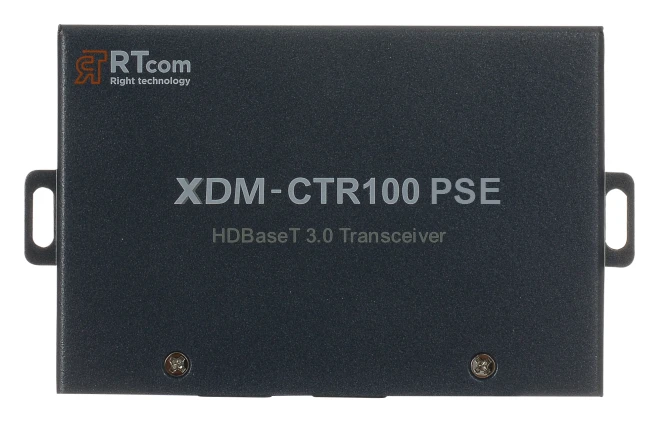
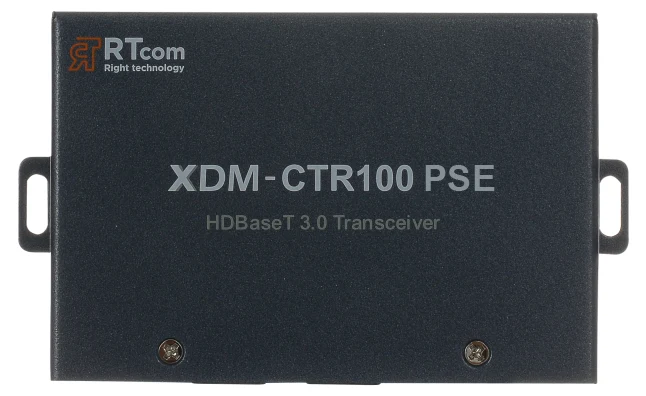
0.91.0: XDM-CTR100 PSE 정면 사진 재업로드

diff --git a/index.html b/index.html
@@ -1,7 +1,7 @@
 <!doctype html>
 <html lang="ko"><head><meta charset="utf-8"><meta name="viewport" content="width=device-width,initial-scale=1"><title>RTCOM 매트릭스 구성기</title><meta name="description" content="RTCOM XDM, SPX, VDM 매트릭스 카드 슬롯 구성기와 알티컴 공개 제품정보"></head><body><div id="rtcom-design" aria-label="RTCOM 매트릭스 구성기">
   <link rel="stylesheet" href="src/styles.css">
-  <header class="rt-top"><a class="rt-brand-lockup" href="./"><span class="rt-brand-mark" aria-hidden="true">▦</span><span><span class="rt-brand">RT<span>COM</span> Matrix Configurator</span><span class="rt-brand-sub">XDM · SPX · VDM CARD SLOT DESIGN</span></span></a><nav class="rt-view-tabs" aria-label="화면 전환"><a data-view-tab="configurator" href="#matrix-configurator" aria-current="page">매트릭스 구성기</a><a data-view-tab="products" href="#products">알티컴 제품정보</a></nav><div class="rt-top-links"><a class="rt-portal-link" href="https://seoulav.github.io/AV-Portal/" target="_blank" rel="noopener">AV Portal에서 제품 찾기 <span aria-hidden="true">↗</span><span class="rt-visually-hidden">(새 창)</span></a><div class="rt-meta"><b>AV 시스템 설계 도구</b><br>CATALOG BASED · 0.90</div></div></header>
+  <header class="rt-top"><a class="rt-brand-lockup" href="./"><span class="rt-brand-mark" aria-hidden="true">▦</span><span><span class="rt-brand">RT<span>COM</span> Matrix Configurator</span><span class="rt-brand-sub">XDM · SPX · VDM CARD SLOT DESIGN</span></span></a><nav class="rt-view-tabs" aria-label="화면 전환"><a data-view-tab="configurator" href="#matrix-configurator" aria-current="page">매트릭스 구성기</a><a data-view-tab="products" href="#products">알티컴 제품정보</a></nav><div class="rt-top-links"><a class="rt-portal-link" href="https://seoulav.github.io/AV-Portal/" target="_blank" rel="noopener">AV Portal에서 제품 찾기 <span aria-hidden="true">↗</span><span class="rt-visually-hidden">(새 창)</span></a><div class="rt-meta"><b>AV 시스템 설계 도구</b><br>CATALOG BASED · 0.91</div></div></header>
   <section class="rt-configurator-view" aria-label="매트릭스 구성기">
     <div id="matrix-configurator" class="rt-configurator-anchor"><h1 class="rt-visually-hidden" tabindex="-1">매트릭스 구성기 — 프레임을 선택하고 실제 슬롯 위치에 입력·출력 카드를 장착해 구성합니다.</h1></div>
     <div class="rt-workspace"><div class="rt-tools"><button class="rt-button" data-tool="undo" disabled>↶ 실행 취소</button><button class="rt-button" data-tool="redo" disabled>↷ 다시 실행</button><button class="rt-button" data-tool="backup">JSON 백업</button><button class="rt-button" data-tool="import">불러오기</button><button class="rt-button" data-tool="reset">새 구성</button></div><p id="save-status" role="status" aria-live="polite">이 브라우저에 자동 저장됩니다.</p><input id="import-file" type="file" accept=".json,application/json" hidden></div><nav class="rt-nav" aria-label="구성 단계"></nav>

diff --git a/CLAUDE.md b/CLAUDE.md
@@ -50,7 +50,7 @@
 
 - 현재 화면 버전은 `index.html`의 우측 상단 표기와 `README.md`에 함께 기록합니다.
 - 원본 `main`에 기능 묶음을 병합할 때 마이너 버전을 올리고, 같은 커밋에서 `CHANGELOG.md`를 갱신합니다.
-- 구성기 단일 화면 전환은 `0.7.0`, Analog Way 방식 화면 개편은 `0.8.0`, 전송기 자동 연동은 `0.9.0`, HDMI 카드 PSE 쌍 연장은 `0.10.0`, SPX 매뉴얼 사진 슬롯은 `0.11.0`, VDM-256X 추가는 `0.12.0`, VDM 매뉴얼 후면 도면 슬롯은 `0.13.0`, 휴대폰 슬롯 겹침·뒤로가기 수정은 `0.14.0`, VDM 전면 도면은 `0.15.0`, 사진 슬롯 판넬 잘림 수정은 `0.16.0`, 장착 슬롯 번호표 숨김·구성 요약 카드 확대는 `0.17.0`, XDM 판넬 손나사 잘림 수정·VDM 전송기 연동·로고 홈 이동 확인은 `0.18.0`, 알티컴 공개 제품정보(29종) 재게시는 `0.19.0`, 제품정보 상세 표기를 에이앤미디어(antez.co.kr) 방식으로 정리한 것은 `0.20.0`, 데이터 기반 연결 다이어그램 추가는 `0.21.0`, 제품 사양 표를 구분·사양 2단으로 정리한 것은 `0.22.0`, 휴대폰 가로 스크롤(긴 출처 경로) 수정은 `0.23.0`, HD-14U·HD-18U 모델명 정정과 VDM CT102-U·FT102-U 계열 제외는 `0.24.0`, 제조사 카탈로그 원본 연결 다이어그램 적용은 `0.25.0`, 제품 사양 표 디자인(분류 색 점) 다듬기는 `0.26.0`, 새 카탈로그로 나머지 25종 재검증·XDM-CTR100 조합 다이어그램은 `0.27.0`, 연결 다이어그램 가로 스크롤 안내(그러데이션 표시)와 XDM-CTR100 케이블별 최대 전송거리(CI6522 80m) 추가는 `0.28.0`, VDM HOS4-U·HOS4S-UW 카드 설명을 스위칭 방식(일반·심리스)으로 정리하고 XDM-288을 구성기에서 삭제한 것은 `0.29.0`, XDM-CTR100 연결 다이어그램 조합 1을 매트릭스 카드 직결 배선으로 바로잡고 제조사 원본 다이어그램에 출처 캡션·표기 다름 경고를 추가하고 6개 제품과 SPX 다이어그램을 다시 잘라낸 것은 `0.30.0`, VDM 전송기 4종(CT101-U/CR101-U·CT103-U-H/CR103-U·FT101-U/FR101-U·FT103-U-H/FR103-U)에 RS-232 단자 행을 추가하고 이 4종과 CT104-U/CR104-U를 46쪽판과 재대조하고 27종 전체의 카탈로그 쪽 표기를 46쪽판 기준으로 통일한 것은 `0.31.0`, `docs/audit/PRODUCT_DIAGRAM_REVIEW_2026-09-27.md` §6 판단표대로 13개 제품의 검토 필요 항목을 정리해 REVIEW REQUIRED 배지를 없앤 것은 `0.32.0`, 제품정보 화면을 사용자 LED 구성기 계승 글래스 디자인으로 개편한 것(`docs/handoff/PRODUCT_GLASS_REDESIGN_SPEC.md` 6-A: 기반·HD-210U·XDM·VDM·SPX)은 `0.33.0`, 나머지 23종(분배기·일체형·전송기·케이블)에 lead·subtitle·portMap을 채우고 분배기·일체형 신호 흐름을 승인 시안 방식으로 바꾸고 QMS 화면 구성 모드(videoModes)를 추가한 것(6-B)은 `0.34.0`, HD-13U 상세에 전면 EDID 로터리 스위치 위치 표시와 EDID 코드표(edidSwitch, 사용자 제공 매뉴얼 근거)를 추가한 것은 `0.35.0`, HD-104U·HD-108U 모델명 표기를 0.24.0 정정 이전으로 되돌리고(사용자 확인 2026-09-27: 카탈로그 표기는 HD-104U·HD-108U이며 실크만 14U·18U로 변경 예정) HD-210U 전면 설정 스위치(딥 스위치·EDID 로터리) 추가와 신호 흐름 매트릭스 판정 복원을 함께 묶은 것은 `0.36.0`, 매트릭스 구성기 화면을 Analog Way 구조 + LED 글래스 스킨으로 개편하고 블랭크 커버(`placements`의 예약값 `"BLANK"`)로 슬롯 구성을 완성하는 기능을 추가한 것(`docs/handoff/CONFIGURATOR_AW_GLASS_SPEC.md`, 사용자 결정 2026-09-27)은 `0.37.0`, 0.37.0에서 시안과 다르게 남겨 둔 04 전송기 화면을 사용자 검토 후 좌우 분할 구조(01·02와 같은 틀)로 다시 지은 것(`docs/implementation/CONFIGURATOR_AW_GLASS.md` "04 전송기(편차 — 0.38.0에서 해소)")은 `0.38.0`, 제품 상세 "01 한눈에 보기" 위에 큰 사진 띠와 누르면 확대되는 돋보기(라이트박스)를 추가하고 화면에 보이는 제품 사양·주요 기능의 "up to" 표기를 "최대"로 통일하고 제품정보 "확인 사항" 118건을 2건으로 정리(HD-210U 크기 355mm 정정, `docs/audit/PRODUCT_ISSUES_ARCHIVE_2026-09-27.md`)한 것은 `0.39.0`, HD-13U "05 주요 기능"에 오디오 병합(믹스)·추출(디먹스) 동시 사용 안내(매뉴얼 7쪽 근거)를 추가한 것은 `0.40.0`, 분배기(HD-13U·HD-104U·HD-108U·HD-210U) EDID 로터리 코드표에서 자주 쓰는 1·7번을 강조하고 "02 신호 흐름"에 오디오 병합·추출(AUDIO OUT·"추출" 표시)을 추가한 것은 `0.41.0`, 사진 없이 입출력 표 카드로만 보이던 7종(HD-D102U·XDM-CTR100·전송기 5종)의 단자 지도를 HD-13U처럼 실제 제품 사진 기준으로 바꾸고 `portMap`이 송신기·수신기 사진 여러 장을 받게 한 것은 `0.42.0`, HDS-21U·HDS-42MU에 EDID 로터리(edidSwitch)를 추가하고 오디오 병합 설명을 "HDMI OUTPUT에 실리는 오디오" 기준으로 정정하고 분배기·선택기 필터를 HDMI 출력 개수 순으로 정렬하고 XDM-CTR100 "02 신호 흐름" 케이블 최대 전송거리 표기를 다이어그램 하단 한쪽으로 모은 것은 `0.43.0`, 분배기·선택기 필터 정렬을 분배기(Splitter)가 먼저 나오고 셀렉터(Switcher)가 나중에 나오도록(같은 종류 안에서는 HDMI 출력 개수 순) 바꾼 것은 `0.44.0`, 사용자 제공 매뉴얼 3권으로 벽부형 XDM-CT103·CT103-U-H/CR103-U·FT103-U-H/FR103-U의 단자 지도·사양·EDID 표를 보완하고 단자 지도에 세로 괄호·표시 폭·안내 줄을 추가한 것은 `0.45.0`, XDM-CTR100 PSE 제품 안내서와 XDM-CTR100 매뉴얼 Ver.1.4로 CTR100 단자 역할(HDMI IN·OUT, 5핀 오디오 출력, 상태 LED)·딥 스위치 설정·PSE 크기·전원을 보완한 것은 `0.46.0`, 옛 PR #22에만 있던 사용자 결정(XDM-CTR100과 XDM-CTR100 PSE를 별도 제품으로 분리해 28종, QMS-88UX 쿼드 뷰 출력 9·10번 사용법, 모델명 줄바꿈 방지)을 현재 main 기준으로 다시 옮기고 HD-13U 오디오 병합·추출을 선택 방식으로 정정해 07 오디오 설정 카드를 추가하고 모든 제품의 단자 지도 번호를 HDMI 입력 → 출력 → 오디오 → … → 전원(마지막) 순으로 통일한 것은 `0.47.0`, QMS-88UX 출력 9·10번 멀티뷰의 12가지 레이아웃·입력 그룹·출력 옵션을 사용자 제공 매뉴얼 20~23쪽 근거로 "주요 기능"에 적은 것은 `0.48.0`, HDS-21U·HDS-42MU 오디오 병합·추출을 딥 스위치 1번 선택 방식으로 정정하고 07 오디오 설정 카드를 추가하고 사용자 제공 매뉴얼 Ver.1.0으로 Priority·분배 기능 딥 스위치를 보완하고 제품 사진 팝업을 사용자 LED 계산기 "05 프로세서" 방식(사진 탭·원형 돋보기)으로 바꾼 것은 `0.49.0`, QMS-88UX "02 신호 흐름"에서 멀티뷰 출력 9·10번을 매트릭스 출력과 분리된 별도 갈래(패널·캡션)로 다시 그리고 "05 주요 기능" 멀티뷰 항목을 요약하고 오디오 출력 2개(QD1·QD2)가 선택 가능한 출력임을 반영한 것은 `0.50.0`, QMS-88UX "04 제품 사양"의 조건 칸(부설)을 모두 비우고 LAN(Telnet & Web Browser) 표기를 사양·기능·개요·단자 지도에서 모두 뺀 것은 `0.51.0`, HDS-42MU 크기를 사용자 결정에 따라 매뉴얼 값 232×65×30mm로 바꾸고 제품 상세의 "자료 출처·검토 기록"을 "제조사 자료"로 이름을 바꿔 화면의 출처 표시를 뺀 것은 `0.52.0`, QMS-88UX 오디오 QD1·QD2 설명 정리·"02 신호 흐름" 오디오 추출 점선과 멀티뷰 8입력분할 표현 정리·입출력 단자 표 정렬 통일(TX→구분 없음→RX, 영상→오디오→전송→제어, 입력→출력→양방향)·"제조사 자료"에서 표기 다름·참고 사항도 추가로 뺀 것과 조건 칸의 출처 문구를 지우고 "05 주요 기능"을 한 줄 요약으로 줄인 것(상세는 06·07 카드·사양·단자 지도로 이동)은 `0.53.0`, XDM-CTR100·CTR100 PSE "04 제품 사양"의 딥 스위치 행을 다시 삭제(딥 스위치는 05 주요 기능에서만 안내)하고 전 제품 "05 주요 기능"을 추가로 압축하고 매트릭스 COS/CIS/FIS/FOS 카드와 짝인 전송기 3종(XDM-CTR100·CTR100 PSE·FT101/FR101)에 RS-232+ 패스스루(AMX 등 통합 제어 신호를 매트릭스·전송기 너머로 전달) 안내를 추가하고 "02 신호 흐름"의 케이블 최대 전송거리 표기를 범례 "출력" 항목 오른쪽으로 옮긴 것은 `0.54.0`, 구성기 확인 창을 사이트 글래스 스타일 대화상자로 바꾸고 카드 팝업에 수량 채우기와 같은 방향 슬롯 이동(끌어 옮기기·팝업 이동)을 추가하고 XDM 세로 슬롯 카드를 180도 돌리고 2U 이상만 정면·후면 버튼(그보다 작으면 정면 사진과 포트 연결면을 함께 표시)으로 하고 구성기 작업 단계 표기를 한글로 바꾸고 Delete 키 카드 빼기와 XDM RS-232+(CIS·COS·FIS·FOS 카드와 짝 전송기) 표기를 더한 것은 `0.55.0`, 전 제품 "05 주요 기능" 카탈로그 어투 통일("~ 지원")·"01 한눈에 보기" 위 사진 띠 삭제·"02 신호 흐름"과 "03 단자 지도" 순서 교체 및 영문 표기(Signal Flow·Port Map)·화면 구성 모드 등 06 카드를 05 옆으로 배치·QMS-88UX 06 화면 구성 모드 레이아웃 12종 클릭 미리보기 추가·HDS-21U·HDS-42MU 단자 지도를 정면·후면 선택 버튼 없이 위아래 합성 사진 한 장(번호 1~7, EDID 로터리 6번·전원 7번)으로 바꾼 것은 `0.56.0`, 05 옆으로 옮긴 06 카드가 휴대폰에서 01보다 먼저 뜨던 순서 버그를 고치고(rt-pg-col-mobile-6 클래스 추가) 15개 제품 "05 주요 기능"의 "~할 수 있다." 표현 24곳을 명사형으로 정리한 것은 `0.57.0`, HDS-21U·HDS-42MU 단자 지도에 MODE 딥 스위치 번호(7번)를 추가하고 07 오디오 설정 카드를 딥 스위치 그림(번호별 OFF·ON) 카드인 07 딥 스위치 설정으로 바꾸고(1번 오디오 병합·추출, 2번 Priority, 42MU만 3번 분배) 04 제품 사양의 딥 스위치 행과 05 주요 기능의 긴 설명을 이 카드로 옮기고 매트릭스 제품(QMS-44UX·QMS-88UX·HDS-42MU) "03 Signal Flow"를 입력이 한 점으로 모이는 모양 대신 크로스포인트(출력마다 입력 선택 예시)로 다시 그리고 HDS-42MU 정면 사진의 잘못 인쇄된 실크(MODE·EDID)를 사진 안에서 서로 바꾼 것은 `0.58.0`, EDID 로터리 태그 잘림·06 EDID 카드 배치·긴 코드표 좌우 분할을 고치고 EDID 설정 카드에 기본값·자주 쓰는 코드를 파란 16단 로터리 그림(화살표가 코드를 가리킴)으로 보여주고 HDS-21U·HDS-42MU(3·9번)·FT103-U-H/FR103-U(3·6번)에 자주 쓰는 코드 강조를 더하고 EDID 코드표 세로 크기를 줄인 것은 `0.59.0`, 04 제품 사양 표 줄 간격을 약 15% 줄이고 03 Signal Flow에서 AUDIO OUT "추출" 표시가 잘리던 그림 너비 계산을 고친 것은 `0.60.0`, HD-13U 07 오디오 설정을 06 EDID 다음 전체 폭으로 옮겨 잘림·번호 뒤집힘을 고치고 EDID 대표 설정과 같은 칸 4개(MODE 로터리 0번 → SET 누름 → OUT 1 LED 깜빡임·깜빡이지 않음)를 넣고 HD-210U에 매뉴얼 Ver.1.2 근거 07 딥 스위치 설정 카드(1번 오디오 병합, 2번 DDC)를 추가한 것은 `0.61.0`, 딥 스위치 카드가 있는 HD-210U·HDS-21U·HDS-42MU의 05 주요 기능에서 스위치 번호 참조를 지우고 HD-210U(5줄)·HD-13U(3줄) 05 주요 기능을 기능 이름만 남겨 정리하고 HDS-21U·HDS-42MU 딥 스위치 칸을 ON → OFF 순서로 바꾼 것은 `0.62.0`, QMS-44UX·QMS-88UX "06 화면 구성 모드" 카드가 05 옆 좁은 칸에 들어가면서 모드 카드 설명·레이아웃 칩이 카드 밖으로 넘치던 문제를 edidSwitch와 같은 기준(항상 전체 폭 아래)으로 고친 것은 `0.63.0`, SPX-TX/RX 전송기를 29번째 제품으로 추가(매뉴얼 Ver.2.0: 사양·단자 지도·딥 스위치 조합)하고 XDM-FT101/FR101에 매뉴얼 Ver.1.3 근거 EDID·오디오 로터리 카드(전체 8칸 그림)를 넣고 SPX 안내·범례의 HDBaseT 표기를 CATx로 바로잡고 OBUX-1C에 매뉴얼 Ver.2.2 근거 Tx Mode 딥 스위치 카드(1번 오디오, 2·3·4번 EDID 조합)를 넣고 전 제품 05 주요 기능의 "~한다/~다." 문장을 "~ 지원"·명사형으로 통일한 것은 `0.64.0`, OBHD-2C에 매뉴얼 KV01 근거 06 EDID 설정(MODE 로터리 0~D 전체 14칸 그림·코드표)을 추가하고 XDM-CT103/CR103 04 제품 사양의 전원(어댑터) 중복 행(CT103·CR103 각각 있던 동일 값)을 공통 행 하나로 합친 것은 `0.65.0`, XDM-CTR100·XDM-CTR100 PSE에 매뉴얼 Ver.1.4 근거 06 딥 스위치 설정(1·2번 TX/RX 모드 조합, 3번 전송 거리)을 추가하고 두 제품이 별도 페이지로 나뉜 뒤에도 남아 있던 04 제품 사양의 "공통"·자기 모델명 반복 표기를 정리하고 04 사양 "지원 케이블"을 "권장 케이블"로 바꾸고 분배기 4종(HD-13U·HD-104U·HD-108U·HD-210U) 단자 지도를 앞면·뒷면 합성 사진 한 장으로 바꿔 정면 로터리(·SET·MODE)에도 번호를 붙인 것은 `0.66.0`, QMS-88UX 06 화면 구성 모드 QUAD 레이아웃 목록에 매뉴얼 22~23쪽 Output Option 2·3 근거로 "8분할(비율무시)"을 13번째 항목으로 추가하고 분배기 4종(HD-13U·HD-104U·HD-108U·HD-210U) 05 주요 기능에 다단 증폭(캐스케이드 연결) 최대 3단 지원을 추가한 것은 `0.67.0`, XDM-FT101/FR101 단자 지도에 정면 MODE 로터리·S/P 번호를 추가하고 HD-D102U 05 주요 기능을 명사형으로 전면 재작성하고 HDS-21U·HDS-42MU "Audio Extraction"과 HD-210U EDID "Nothing" 표기를 통일하고 HDS-21U 딥 스위치 3번(분배)이 매뉴얼에 없는 기능이었음을 사용자 제공 매뉴얼로 확인해 삭제한 것은 `0.68.0`, HDS-21U·HDS-42MU 06 EDID 설정 안내 문장에서 "10번=A, 11번=B"처럼 10진수를 다시 설명하던 괄호를 완전히 지운 것은 `0.69.0`, 구성기 "섀시"를 "프레임"으로 통일하고 카드 팝업에 수량·순서대로 장착 버튼을 넣고 02 프레임 선택에 "함께 보면 좋은 제품"을 추가하고 빈 슬롯 공패널색을 통일하고 OBHD-2C EDID 로터리 번호를 매뉴얼 Ver.2.1 기준으로 정정하고 HD-D102U "스마트 EDID" 문구를 알기 쉽게 풀어 쓰고 HD-13U·XDM-CTR100 PSE "인증: KC 인증" 행을 삭제하고 HD-D102U 04 사양표를 HD-13U와 같은 구성으로 정리한 것은 `0.70.0`, OBHD-2C 04 제품 사양의 크기·무게·HDMI 규격을 사용자 결정에 따라 매뉴얼 Ver.2.1 값(128×89×25mm·0.36kg·HDMI 1.3)으로 바꾼 것은 `0.71.0`, OBHD-2C·OBUX-1C 04 제품 사양의 입력단자·출력단자(HDMI(female) 등 표기) 행을 삭제하고 전 제품(16종)의 mm/kg 옆 인치·lbs 병기를 지운 것은 `0.72.0`, XDM-PSU 전원 장치를 반영해 BOM의 임시 "전원 공급 장비"를 XDM-PSU(16칸당 1대)·XDM-POH(CTR100 Tx 1대당 1개)·XDM-PHX(COS100 1장당 1개)로 나누고 XDM-PSU를 30번째 제품으로 추가하고, HDS-21U·OBUX-1C 송신기·수신기 고해상도 실물 사진을 반영하고, CT103-U-H/CR103-U 04 제품 사양을 요약 형태로 정리한 것은 `0.73.0`, QMS-44UX 전면·후면 사진을 사용자가 직접 촬영한 고화질 사진으로 바꾸고 03 단자 지도 좌표를 재보정하고 새 사진에서 확인된 DOWNLOAD(Mini-USB) 포트를 추가한 것은 `0.74.0`, HD-108U 전면·후면 사진을 제조사에서 입수한 고화질 사진으로 바꾸고 03 단자 지도와 06 EDID 설정 로터리 스위치 좌표를 재보정한 것은 `0.75.0`, HDS-42MU 전면·후면 사진을 고화질로 바꾸고 단자 지도·EDID 좌표를 재보정한 것은 `0.76.0`, HD-13U·SPX-M810 전면·후면 사진을 고해상도로 바꾸고 HD-13U 단자 지도·EDID 좌표와 SPX-M810 구성기 카드 슬롯 좌표를 재측정한 것은 `0.77.0`, 사용자가 제공한 HD-104U 고해상도 전면·후면 사진(긴 변 약 2000px)으로 기존 저해상도 이미지를 교체하고 단자 지도·EDID 로터리 스위치 좌표를 새 사진 기준으로 다시 측정한 것은 `0.78.0`, 제품 상세에 등록된 제조사 카탈로그·매뉴얼 PDF만 "제품 목록" 옆 버튼(새 탭 보기·내려받기)으로 보여 주는 구조를 추가한 것은 `0.79.0`, 매트릭스 카드 상세 정보 버튼과 XDM·SPX·VDM 카드 26종 사양을 등록한 것은 `0.80.0`, 로컬 작업 환경(`DEVICE_WORKFLOW.md`, `.gitattributes`, `.claude/settings.json`)과 `input_doc` 자료 자동 분류(`.claude/skills/input-doc`, `scripts/input_doc.py`)를 추가한 것은 `0.81.0`, 제조사 자료 입출력 단자 표에서 방향("입력"·"출력"·"입출력")·수량(숫자) 칸이 좁은 화면에서 줄바꿈되던 문제를 30개 제품 전수 조사로 찾아 고친 것은 `0.82.0`, 제목에 송신기·수신기가 들어간 제품 10종의 라벨을 색으로 구분한 것은 `0.83.0`, input_doc 첫 정리(매뉴얼 20권·사양서 1장)로 VDM HOS4-U 카드 사양을 등록하고 CIS4-U·COS4-U·QOS4S-U를 매뉴얼 KV07 값으로 보완하고 input_doc 반영 장부(`docs/evidence/input-doc-ledger.json`)와 파일별 반영 표시(`input_doc/STATUS.md`)를 추가하고 검증된 PR의 병합·배포를 Claude가 이어서 하도록 규칙을 바꾼 것은 `0.84.0`, 카탈로그·매뉴얼 충돌 정리(`docs/audit/CATALOG_MANUAL_CONFLICTS_2026-09-28.md`) 결정대로 VDM -U 카드에 매뉴얼 해상도 행·SOS4 오디오 포트를 더하고 QMS-88UX 멀티뷰에 8분할(16:9 비율)을 추가한 것은 `0.85.0`, 카탈로그·매뉴얼 충돌 항목을 사용자 결정("새로준 자료 기준으로")에 따라 매뉴얼 값으로 통일한 것(HD-104U 전원 1A, XDM 전송기 3840x2160, VDM 광 카드 10km·-U 카드 4096×2160·HOS4S-UW 1920×1080)은 `0.86.0`, RT컴 제공 고해상도 실물 사진으로 XDM-CTR100·XDM-FT101·XDM-FR101·XDM-CT103 제품 사진·목록 카드·구성기 04 전송기 썸네일을 교체하고 CTR100·FT101·CT103 단자 지도를 새 사진으로 다시 합성하고 XDM-FR101 수신기 뒷면 단자 지도를 추가한 것은 `0.87.0`, 사용자 결정("1번")으로 input_doc 매뉴얼 17개를 공개 폴더에 올려 16개 제품 상세에 매뉴얼 PDF 버튼을 켠 것은 `0.88.0`, 사용자 확인("ctr100과 pse는 단자는 동일해")에 따라 XDM-CTR100·XDM-CTR100 PSE 단자 지도를 같은 합성 사진(앞면 PSE 제품 안내서 사진 + 뒷면 RT컴 CTR100 사진)으로 바꾼 것은 `0.89.0`, QMS-88UX 06 화면 구성 모드의 DUAL 카드("듀얼 모드" 한 마디뿐)를 매뉴얼 KV.04 20~21쪽 근거로 출력 9·10번 멀티뷰 설정의 2분할(PBP)·PIP 레이아웃 3종으로 채운 것은 `0.90.0`으로 기록했습니다. 다음 기능 묶음은 `0.91.0`을 목표로 하며, 실제 병합 전에는 검증된 canonical main commit을 확인합니다.
+- 구성기 단일 화면 전환은 `0.7.0`, Analog Way 방식 화면 개편은 `0.8.0`, 전송기 자동 연동은 `0.9.0`, HDMI 카드 PSE 쌍 연장은 `0.10.0`, SPX 매뉴얼 사진 슬롯은 `0.11.0`, VDM-256X 추가는 `0.12.0`, VDM 매뉴얼 후면 도면 슬롯은 `0.13.0`, 휴대폰 슬롯 겹침·뒤로가기 수정은 `0.14.0`, VDM 전면 도면은 `0.15.0`, 사진 슬롯 판넬 잘림 수정은 `0.16.0`, 장착 슬롯 번호표 숨김·구성 요약 카드 확대는 `0.17.0`, XDM 판넬 손나사 잘림 수정·VDM 전송기 연동·로고 홈 이동 확인은 `0.18.0`, 알티컴 공개 제품정보(29종) 재게시는 `0.19.0`, 제품정보 상세 표기를 에이앤미디어(antez.co.kr) 방식으로 정리한 것은 `0.20.0`, 데이터 기반 연결 다이어그램 추가는 `0.21.0`, 제품 사양 표를 구분·사양 2단으로 정리한 것은 `0.22.0`, 휴대폰 가로 스크롤(긴 출처 경로) 수정은 `0.23.0`, HD-14U·HD-18U 모델명 정정과 VDM CT102-U·FT102-U 계열 제외는 `0.24.0`, 제조사 카탈로그 원본 연결 다이어그램 적용은 `0.25.0`, 제품 사양 표 디자인(분류 색 점) 다듬기는 `0.26.0`, 새 카탈로그로 나머지 25종 재검증·XDM-CTR100 조합 다이어그램은 `0.27.0`, 연결 다이어그램 가로 스크롤 안내(그러데이션 표시)와 XDM-CTR100 케이블별 최대 전송거리(CI6522 80m) 추가는 `0.28.0`, VDM HOS4-U·HOS4S-UW 카드 설명을 스위칭 방식(일반·심리스)으로 정리하고 XDM-288을 구성기에서 삭제한 것은 `0.29.0`, XDM-CTR100 연결 다이어그램 조합 1을 매트릭스 카드 직결 배선으로 바로잡고 제조사 원본 다이어그램에 출처 캡션·표기 다름 경고를 추가하고 6개 제품과 SPX 다이어그램을 다시 잘라낸 것은 `0.30.0`, VDM 전송기 4종(CT101-U/CR101-U·CT103-U-H/CR103-U·FT101-U/FR101-U·FT103-U-H/FR103-U)에 RS-232 단자 행을 추가하고 이 4종과 CT104-U/CR104-U를 46쪽판과 재대조하고 27종 전체의 카탈로그 쪽 표기를 46쪽판 기준으로 통일한 것은 `0.31.0`, `docs/audit/PRODUCT_DIAGRAM_REVIEW_2026-09-27.md` §6 판단표대로 13개 제품의 검토 필요 항목을 정리해 REVIEW REQUIRED 배지를 없앤 것은 `0.32.0`, 제품정보 화면을 사용자 LED 구성기 계승 글래스 디자인으로 개편한 것(`docs/handoff/PRODUCT_GLASS_REDESIGN_SPEC.md` 6-A: 기반·HD-210U·XDM·VDM·SPX)은 `0.33.0`, 나머지 23종(분배기·일체형·전송기·케이블)에 lead·subtitle·portMap을 채우고 분배기·일체형 신호 흐름을 승인 시안 방식으로 바꾸고 QMS 화면 구성 모드(videoModes)를 추가한 것(6-B)은 `0.34.0`, HD-13U 상세에 전면 EDID 로터리 스위치 위치 표시와 EDID 코드표(edidSwitch, 사용자 제공 매뉴얼 근거)를 추가한 것은 `0.35.0`, HD-104U·HD-108U 모델명 표기를 0.24.0 정정 이전으로 되돌리고(사용자 확인 2026-09-27: 카탈로그 표기는 HD-104U·HD-108U이며 실크만 14U·18U로 변경 예정) HD-210U 전면 설정 스위치(딥 스위치·EDID 로터리) 추가와 신호 흐름 매트릭스 판정 복원을 함께 묶은 것은 `0.36.0`, 매트릭스 구성기 화면을 Analog Way 구조 + LED 글래스 스킨으로 개편하고 블랭크 커버(`placements`의 예약값 `"BLANK"`)로 슬롯 구성을 완성하는 기능을 추가한 것(`docs/handoff/CONFIGURATOR_AW_GLASS_SPEC.md`, 사용자 결정 2026-09-27)은 `0.37.0`, 0.37.0에서 시안과 다르게 남겨 둔 04 전송기 화면을 사용자 검토 후 좌우 분할 구조(01·02와 같은 틀)로 다시 지은 것(`docs/implementation/CONFIGURATOR_AW_GLASS.md` "04 전송기(편차 — 0.38.0에서 해소)")은 `0.38.0`, 제품 상세 "01 한눈에 보기" 위에 큰 사진 띠와 누르면 확대되는 돋보기(라이트박스)를 추가하고 화면에 보이는 제품 사양·주요 기능의 "up to" 표기를 "최대"로 통일하고 제품정보 "확인 사항" 118건을 2건으로 정리(HD-210U 크기 355mm 정정, `docs/audit/PRODUCT_ISSUES_ARCHIVE_2026-09-27.md`)한 것은 `0.39.0`, HD-13U "05 주요 기능"에 오디오 병합(믹스)·추출(디먹스) 동시 사용 안내(매뉴얼 7쪽 근거)를 추가한 것은 `0.40.0`, 분배기(HD-13U·HD-104U·HD-108U·HD-210U) EDID 로터리 코드표에서 자주 쓰는 1·7번을 강조하고 "02 신호 흐름"에 오디오 병합·추출(AUDIO OUT·"추출" 표시)을 추가한 것은 `0.41.0`, 사진 없이 입출력 표 카드로만 보이던 7종(HD-D102U·XDM-CTR100·전송기 5종)의 단자 지도를 HD-13U처럼 실제 제품 사진 기준으로 바꾸고 `portMap`이 송신기·수신기 사진 여러 장을 받게 한 것은 `0.42.0`, HDS-21U·HDS-42MU에 EDID 로터리(edidSwitch)를 추가하고 오디오 병합 설명을 "HDMI OUTPUT에 실리는 오디오" 기준으로 정정하고 분배기·선택기 필터를 HDMI 출력 개수 순으로 정렬하고 XDM-CTR100 "02 신호 흐름" 케이블 최대 전송거리 표기를 다이어그램 하단 한쪽으로 모은 것은 `0.43.0`, 분배기·선택기 필터 정렬을 분배기(Splitter)가 먼저 나오고 셀렉터(Switcher)가 나중에 나오도록(같은 종류 안에서는 HDMI 출력 개수 순) 바꾼 것은 `0.44.0`, 사용자 제공 매뉴얼 3권으로 벽부형 XDM-CT103·CT103-U-H/CR103-U·FT103-U-H/FR103-U의 단자 지도·사양·EDID 표를 보완하고 단자 지도에 세로 괄호·표시 폭·안내 줄을 추가한 것은 `0.45.0`, XDM-CTR100 PSE 제품 안내서와 XDM-CTR100 매뉴얼 Ver.1.4로 CTR100 단자 역할(HDMI IN·OUT, 5핀 오디오 출력, 상태 LED)·딥 스위치 설정·PSE 크기·전원을 보완한 것은 `0.46.0`, 옛 PR #22에만 있던 사용자 결정(XDM-CTR100과 XDM-CTR100 PSE를 별도 제품으로 분리해 28종, QMS-88UX 쿼드 뷰 출력 9·10번 사용법, 모델명 줄바꿈 방지)을 현재 main 기준으로 다시 옮기고 HD-13U 오디오 병합·추출을 선택 방식으로 정정해 07 오디오 설정 카드를 추가하고 모든 제품의 단자 지도 번호를 HDMI 입력 → 출력 → 오디오 → … → 전원(마지막) 순으로 통일한 것은 `0.47.0`, QMS-88UX 출력 9·10번 멀티뷰의 12가지 레이아웃·입력 그룹·출력 옵션을 사용자 제공 매뉴얼 20~23쪽 근거로 "주요 기능"에 적은 것은 `0.48.0`, HDS-21U·HDS-42MU 오디오 병합·추출을 딥 스위치 1번 선택 방식으로 정정하고 07 오디오 설정 카드를 추가하고 사용자 제공 매뉴얼 Ver.1.0으로 Priority·분배 기능 딥 스위치를 보완하고 제품 사진 팝업을 사용자 LED 계산기 "05 프로세서" 방식(사진 탭·원형 돋보기)으로 바꾼 것은 `0.49.0`, QMS-88UX "02 신호 흐름"에서 멀티뷰 출력 9·10번을 매트릭스 출력과 분리된 별도 갈래(패널·캡션)로 다시 그리고 "05 주요 기능" 멀티뷰 항목을 요약하고 오디오 출력 2개(QD1·QD2)가 선택 가능한 출력임을 반영한 것은 `0.50.0`, QMS-88UX "04 제품 사양"의 조건 칸(부설)을 모두 비우고 LAN(Telnet & Web Browser) 표기를 사양·기능·개요·단자 지도에서 모두 뺀 것은 `0.51.0`, HDS-42MU 크기를 사용자 결정에 따라 매뉴얼 값 232×65×30mm로 바꾸고 제품 상세의 "자료 출처·검토 기록"을 "제조사 자료"로 이름을 바꿔 화면의 출처 표시를 뺀 것은 `0.52.0`, QMS-88UX 오디오 QD1·QD2 설명 정리·"02 신호 흐름" 오디오 추출 점선과 멀티뷰 8입력분할 표현 정리·입출력 단자 표 정렬 통일(TX→구분 없음→RX, 영상→오디오→전송→제어, 입력→출력→양방향)·"제조사 자료"에서 표기 다름·참고 사항도 추가로 뺀 것과 조건 칸의 출처 문구를 지우고 "05 주요 기능"을 한 줄 요약으로 줄인 것(상세는 06·07 카드·사양·단자 지도로 이동)은 `0.53.0`, XDM-CTR100·CTR100 PSE "04 제품 사양"의 딥 스위치 행을 다시 삭제(딥 스위치는 05 주요 기능에서만 안내)하고 전 제품 "05 주요 기능"을 추가로 압축하고 매트릭스 COS/CIS/FIS/FOS 카드와 짝인 전송기 3종(XDM-CTR100·CTR100 PSE·FT101/FR101)에 RS-232+ 패스스루(AMX 등 통합 제어 신호를 매트릭스·전송기 너머로 전달) 안내를 추가하고 "02 신호 흐름"의 케이블 최대 전송거리 표기를 범례 "출력" 항목 오른쪽으로 옮긴 것은 `0.54.0`, 구성기 확인 창을 사이트 글래스 스타일 대화상자로 바꾸고 카드 팝업에 수량 채우기와 같은 방향 슬롯 이동(끌어 옮기기·팝업 이동)을 추가하고 XDM 세로 슬롯 카드를 180도 돌리고 2U 이상만 정면·후면 버튼(그보다 작으면 정면 사진과 포트 연결면을 함께 표시)으로 하고 구성기 작업 단계 표기를 한글로 바꾸고 Delete 키 카드 빼기와 XDM RS-232+(CIS·COS·FIS·FOS 카드와 짝 전송기) 표기를 더한 것은 `0.55.0`, 전 제품 "05 주요 기능" 카탈로그 어투 통일("~ 지원")·"01 한눈에 보기" 위 사진 띠 삭제·"02 신호 흐름"과 "03 단자 지도" 순서 교체 및 영문 표기(Signal Flow·Port Map)·화면 구성 모드 등 06 카드를 05 옆으로 배치·QMS-88UX 06 화면 구성 모드 레이아웃 12종 클릭 미리보기 추가·HDS-21U·HDS-42MU 단자 지도를 정면·후면 선택 버튼 없이 위아래 합성 사진 한 장(번호 1~7, EDID 로터리 6번·전원 7번)으로 바꾼 것은 `0.56.0`, 05 옆으로 옮긴 06 카드가 휴대폰에서 01보다 먼저 뜨던 순서 버그를 고치고(rt-pg-col-mobile-6 클래스 추가) 15개 제품 "05 주요 기능"의 "~할 수 있다." 표현 24곳을 명사형으로 정리한 것은 `0.57.0`, HDS-21U·HDS-42MU 단자 지도에 MODE 딥 스위치 번호(7번)를 추가하고 07 오디오 설정 카드를 딥 스위치 그림(번호별 OFF·ON) 카드인 07 딥 스위치 설정으로 바꾸고(1번 오디오 병합·추출, 2번 Priority, 42MU만 3번 분배) 04 제품 사양의 딥 스위치 행과 05 주요 기능의 긴 설명을 이 카드로 옮기고 매트릭스 제품(QMS-44UX·QMS-88UX·HDS-42MU) "03 Signal Flow"를 입력이 한 점으로 모이는 모양 대신 크로스포인트(출력마다 입력 선택 예시)로 다시 그리고 HDS-42MU 정면 사진의 잘못 인쇄된 실크(MODE·EDID)를 사진 안에서 서로 바꾼 것은 `0.58.0`, EDID 로터리 태그 잘림·06 EDID 카드 배치·긴 코드표 좌우 분할을 고치고 EDID 설정 카드에 기본값·자주 쓰는 코드를 파란 16단 로터리 그림(화살표가 코드를 가리킴)으로 보여주고 HDS-21U·HDS-42MU(3·9번)·FT103-U-H/FR103-U(3·6번)에 자주 쓰는 코드 강조를 더하고 EDID 코드표 세로 크기를 줄인 것은 `0.59.0`, 04 제품 사양 표 줄 간격을 약 15% 줄이고 03 Signal Flow에서 AUDIO OUT "추출" 표시가 잘리던 그림 너비 계산을 고친 것은 `0.60.0`, HD-13U 07 오디오 설정을 06 EDID 다음 전체 폭으로 옮겨 잘림·번호 뒤집힘을 고치고 EDID 대표 설정과 같은 칸 4개(MODE 로터리 0번 → SET 누름 → OUT 1 LED 깜빡임·깜빡이지 않음)를 넣고 HD-210U에 매뉴얼 Ver.1.2 근거 07 딥 스위치 설정 카드(1번 오디오 병합, 2번 DDC)를 추가한 것은 `0.61.0`, 딥 스위치 카드가 있는 HD-210U·HDS-21U·HDS-42MU의 05 주요 기능에서 스위치 번호 참조를 지우고 HD-210U(5줄)·HD-13U(3줄) 05 주요 기능을 기능 이름만 남겨 정리하고 HDS-21U·HDS-42MU 딥 스위치 칸을 ON → OFF 순서로 바꾼 것은 `0.62.0`, QMS-44UX·QMS-88UX "06 화면 구성 모드" 카드가 05 옆 좁은 칸에 들어가면서 모드 카드 설명·레이아웃 칩이 카드 밖으로 넘치던 문제를 edidSwitch와 같은 기준(항상 전체 폭 아래)으로 고친 것은 `0.63.0`, SPX-TX/RX 전송기를 29번째 제품으로 추가(매뉴얼 Ver.2.0: 사양·단자 지도·딥 스위치 조합)하고 XDM-FT101/FR101에 매뉴얼 Ver.1.3 근거 EDID·오디오 로터리 카드(전체 8칸 그림)를 넣고 SPX 안내·범례의 HDBaseT 표기를 CATx로 바로잡고 OBUX-1C에 매뉴얼 Ver.2.2 근거 Tx Mode 딥 스위치 카드(1번 오디오, 2·3·4번 EDID 조합)를 넣고 전 제품 05 주요 기능의 "~한다/~다." 문장을 "~ 지원"·명사형으로 통일한 것은 `0.64.0`, OBHD-2C에 매뉴얼 KV01 근거 06 EDID 설정(MODE 로터리 0~D 전체 14칸 그림·코드표)을 추가하고 XDM-CT103/CR103 04 제품 사양의 전원(어댑터) 중복 행(CT103·CR103 각각 있던 동일 값)을 공통 행 하나로 합친 것은 `0.65.0`, XDM-CTR100·XDM-CTR100 PSE에 매뉴얼 Ver.1.4 근거 06 딥 스위치 설정(1·2번 TX/RX 모드 조합, 3번 전송 거리)을 추가하고 두 제품이 별도 페이지로 나뉜 뒤에도 남아 있던 04 제품 사양의 "공통"·자기 모델명 반복 표기를 정리하고 04 사양 "지원 케이블"을 "권장 케이블"로 바꾸고 분배기 4종(HD-13U·HD-104U·HD-108U·HD-210U) 단자 지도를 앞면·뒷면 합성 사진 한 장으로 바꿔 정면 로터리(·SET·MODE)에도 번호를 붙인 것은 `0.66.0`, QMS-88UX 06 화면 구성 모드 QUAD 레이아웃 목록에 매뉴얼 22~23쪽 Output Option 2·3 근거로 "8분할(비율무시)"을 13번째 항목으로 추가하고 분배기 4종(HD-13U·HD-104U·HD-108U·HD-210U) 05 주요 기능에 다단 증폭(캐스케이드 연결) 최대 3단 지원을 추가한 것은 `0.67.0`, XDM-FT101/FR101 단자 지도에 정면 MODE 로터리·S/P 번호를 추가하고 HD-D102U 05 주요 기능을 명사형으로 전면 재작성하고 HDS-21U·HDS-42MU "Audio Extraction"과 HD-210U EDID "Nothing" 표기를 통일하고 HDS-21U 딥 스위치 3번(분배)이 매뉴얼에 없는 기능이었음을 사용자 제공 매뉴얼로 확인해 삭제한 것은 `0.68.0`, HDS-21U·HDS-42MU 06 EDID 설정 안내 문장에서 "10번=A, 11번=B"처럼 10진수를 다시 설명하던 괄호를 완전히 지운 것은 `0.69.0`, 구성기 "섀시"를 "프레임"으로 통일하고 카드 팝업에 수량·순서대로 장착 버튼을 넣고 02 프레임 선택에 "함께 보면 좋은 제품"을 추가하고 빈 슬롯 공패널색을 통일하고 OBHD-2C EDID 로터리 번호를 매뉴얼 Ver.2.1 기준으로 정정하고 HD-D102U "스마트 EDID" 문구를 알기 쉽게 풀어 쓰고 HD-13U·XDM-CTR100 PSE "인증: KC 인증" 행을 삭제하고 HD-D102U 04 사양표를 HD-13U와 같은 구성으로 정리한 것은 `0.70.0`, OBHD-2C 04 제품 사양의 크기·무게·HDMI 규격을 사용자 결정에 따라 매뉴얼 Ver.2.1 값(128×89×25mm·0.36kg·HDMI 1.3)으로 바꾼 것은 `0.71.0`, OBHD-2C·OBUX-1C 04 제품 사양의 입력단자·출력단자(HDMI(female) 등 표기) 행을 삭제하고 전 제품(16종)의 mm/kg 옆 인치·lbs 병기를 지운 것은 `0.72.0`, XDM-PSU 전원 장치를 반영해 BOM의 임시 "전원 공급 장비"를 XDM-PSU(16칸당 1대)·XDM-POH(CTR100 Tx 1대당 1개)·XDM-PHX(COS100 1장당 1개)로 나누고 XDM-PSU를 30번째 제품으로 추가하고, HDS-21U·OBUX-1C 송신기·수신기 고해상도 실물 사진을 반영하고, CT103-U-H/CR103-U 04 제품 사양을 요약 형태로 정리한 것은 `0.73.0`, QMS-44UX 전면·후면 사진을 사용자가 직접 촬영한 고화질 사진으로 바꾸고 03 단자 지도 좌표를 재보정하고 새 사진에서 확인된 DOWNLOAD(Mini-USB) 포트를 추가한 것은 `0.74.0`, HD-108U 전면·후면 사진을 제조사에서 입수한 고화질 사진으로 바꾸고 03 단자 지도와 06 EDID 설정 로터리 스위치 좌표를 재보정한 것은 `0.75.0`, HDS-42MU 전면·후면 사진을 고화질로 바꾸고 단자 지도·EDID 좌표를 재보정한 것은 `0.76.0`, HD-13U·SPX-M810 전면·후면 사진을 고해상도로 바꾸고 HD-13U 단자 지도·EDID 좌표와 SPX-M810 구성기 카드 슬롯 좌표를 재측정한 것은 `0.77.0`, 사용자가 제공한 HD-104U 고해상도 전면·후면 사진(긴 변 약 2000px)으로 기존 저해상도 이미지를 교체하고 단자 지도·EDID 로터리 스위치 좌표를 새 사진 기준으로 다시 측정한 것은 `0.78.0`, 제품 상세에 등록된 제조사 카탈로그·매뉴얼 PDF만 "제품 목록" 옆 버튼(새 탭 보기·내려받기)으로 보여 주는 구조를 추가한 것은 `0.79.0`, 매트릭스 카드 상세 정보 버튼과 XDM·SPX·VDM 카드 26종 사양을 등록한 것은 `0.80.0`, 로컬 작업 환경(`DEVICE_WORKFLOW.md`, `.gitattributes`, `.claude/settings.json`)과 `input_doc` 자료 자동 분류(`.claude/skills/input-doc`, `scripts/input_doc.py`)를 추가한 것은 `0.81.0`, 제조사 자료 입출력 단자 표에서 방향("입력"·"출력"·"입출력")·수량(숫자) 칸이 좁은 화면에서 줄바꿈되던 문제를 30개 제품 전수 조사로 찾아 고친 것은 `0.82.0`, 제목에 송신기·수신기가 들어간 제품 10종의 라벨을 색으로 구분한 것은 `0.83.0`, input_doc 첫 정리(매뉴얼 20권·사양서 1장)로 VDM HOS4-U 카드 사양을 등록하고 CIS4-U·COS4-U·QOS4S-U를 매뉴얼 KV07 값으로 보완하고 input_doc 반영 장부(`docs/evidence/input-doc-ledger.json`)와 파일별 반영 표시(`input_doc/STATUS.md`)를 추가하고 검증된 PR의 병합·배포를 Claude가 이어서 하도록 규칙을 바꾼 것은 `0.84.0`, 카탈로그·매뉴얼 충돌 정리(`docs/audit/CATALOG_MANUAL_CONFLICTS_2026-09-28.md`) 결정대로 VDM -U 카드에 매뉴얼 해상도 행·SOS4 오디오 포트를 더하고 QMS-88UX 멀티뷰에 8분할(16:9 비율)을 추가한 것은 `0.85.0`, 카탈로그·매뉴얼 충돌 항목을 사용자 결정("새로준 자료 기준으로")에 따라 매뉴얼 값으로 통일한 것(HD-104U 전원 1A, XDM 전송기 3840x2160, VDM 광 카드 10km·-U 카드 4096×2160·HOS4S-UW 1920×1080)은 `0.86.0`, RT컴 제공 고해상도 실물 사진으로 XDM-CTR100·XDM-FT101·XDM-FR101·XDM-CT103 제품 사진·목록 카드·구성기 04 전송기 썸네일을 교체하고 CTR100·FT101·CT103 단자 지도를 새 사진으로 다시 합성하고 XDM-FR101 수신기 뒷면 단자 지도를 추가한 것은 `0.87.0`, 사용자 결정("1번")으로 input_doc 매뉴얼 17개를 공개 폴더에 올려 16개 제품 상세에 매뉴얼 PDF 버튼을 켠 것은 `0.88.0`, 사용자 확인("ctr100과 pse는 단자는 동일해")에 따라 XDM-CTR100·XDM-CTR100 PSE 단자 지도를 같은 합성 사진(앞면 PSE 제품 안내서 사진 + 뒷면 RT컴 CTR100 사진)으로 바꾼 것은 `0.89.0`, QMS-88UX 06 화면 구성 모드의 DUAL 카드("듀얼 모드" 한 마디뿐)를 매뉴얼 KV.04 20~21쪽 근거로 출력 9·10번 멀티뷰 설정의 2분할(PBP)·PIP 레이아웃 3종으로 채운 것은 `0.90.0`, XDM-CTR100 PSE 정면 사진을 사용자가 재확인("1번 맞아"·"적용시켜줘")한 원본 PNG에서 정확한 픽셀 경계로 다시 잘라 646×396으로 다시 저장한 것은 `0.91.0`으로 기록했습니다. 다음 기능 묶음은 `0.92.0`을 목표로 하며, 실제 병합 전에는 검증된 canonical main commit을 확인합니다.
 - 모든 작업은 구현 문서, QA 문서 또는 감사 문서에 근거와 결과를 남깁니다.
 
 ## 로컬 작업과 input_doc

diff --git a/README.md b/README.md
@@ -1,6 +1,6 @@
 # RTCOM Matrix Configurator
 
-**현재 버전: 0.90** · XDM·SPX·VDM 매트릭스의 프레임과 카드 슬롯을 구성하는 도구(Analog Way 구조 + LED 글래스 스킨 + 블랭크 커버, 04 전송기도 좌우 분할)와 알티컴 공개 제품정보(30종, 글래스 디자인·연결 다이어그램)를 제공합니다.
+**현재 버전: 0.91** · XDM·SPX·VDM 매트릭스의 프레임과 카드 슬롯을 구성하는 도구(Analog Way 구조 + LED 글래스 스킨 + 블랭크 커버, 04 전송기도 좌우 분할)와 알티컴 공개 제품정보(30종, 글래스 디자인·연결 다이어그램)를 제공합니다.
 
 프레임을 고르고 실제 슬롯 위치에 입력·출력 카드를 장착한 뒤, 전송기와 BOM을 검토하고 JSON·CSV·인쇄 보고서로 내보냅니다. 0.19부터 알티컴 브로셔 수준 제품정보의 원본은 이 저장소(`data/products/`)이며, 머리글의 "알티컴 제품정보" 탭에서 봅니다. 비공개 AV Portal은 이 공개 데이터를 읽기만 합니다([인계 문서](docs/handoff/AV_PORTAL_RTCOM_PRODUCT_DATA.md)). 실제 슬롯·설치 허용표와 전원·케이블 조건은 확정 전이며, 모든 내보내기는 `UNVERIFIED_DRAFT`로 표시합니다.
 

diff --git a/CHANGELOG.md b/CHANGELOG.md
@@ -1,10 +1,10 @@
-# 변경 기록
-
-이 문서는 병합된 버전과 주요 작업을 시간순으로 기록합니다. 작업 중인 변경은 `Unreleased`에 적고, 원본 소스 `main`에 병합할 때 버전 번호를 확정합니다.
-
 ## Unreleased
 
 - **0.90.0 배포 기록**: `docs/qa/DEPLOYMENT_0.90_2026-09-28.md`(PR #85 → main 병합, 배포 run 64, 공개 파일 242/242 일치, 비공개 파일 6개 404)
+
+## 0.91.0
+
+- **XDM-CTR100 PSE 정면 사진 재업로드**(사용자가 같은 사진 다시 확인 후 "적용시켜줘"): 사용자가 준 원본 PNG에서 정확한 픽셀 경계로 다시 잘라 `xdm-ctr100-pse-front.webp`를 646×396으로 다시 저장했습니다. 화면상 사진 내용은 이전과 같습니다(비교 결과 동일 사진).
 
 ## 0.90.0
 
